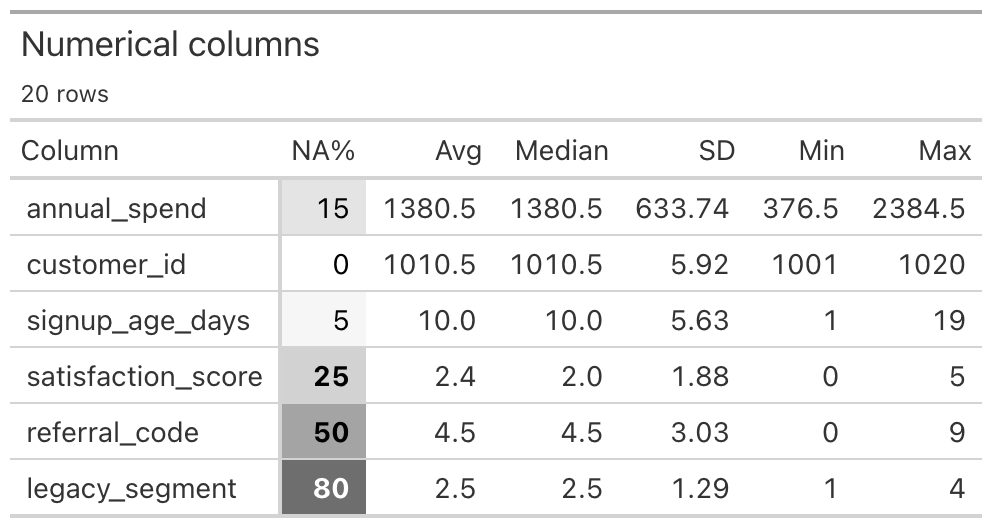
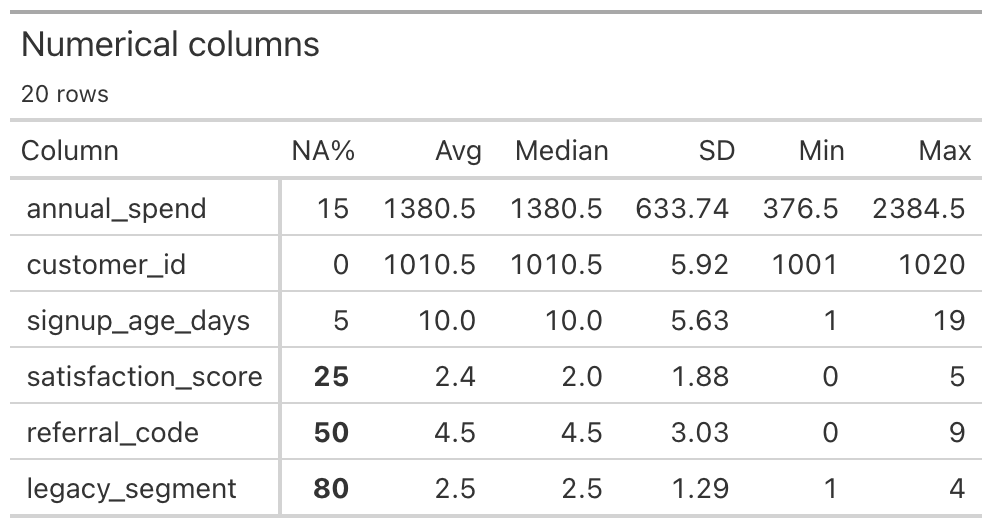
Make the missing value scale optional

Changed region(s): [[0.2727, 0.5758, 0.3939, 1.0], [0.2727, 0.3333, 0.3939, 0.4545], [0.3333, 0.4848, 0.3636, 0.5152]]

diff --git a/src/showstats/_gt.py b/src/showstats/_gt.py
@@ -22,7 +22,12 @@ def _great_tables_api():
     return GT, loc, style
 
 
-def make_gt_table(table: nw.DataFrame, table_type: str, num_rows: int):
+def make_gt_table(
+    table: nw.DataFrame,
+    table_type: str,
+    num_rows: int,
+    color_missing: bool = False,
+):
     """Build one styled Great Tables object from a formatted summary table."""
     GT, loc, style = _great_tables_api()
     titles = {
@@ -49,13 +54,14 @@ def make_gt_table(table: nw.DataFrame, table_type: str, num_rows: int):
     )
     if table_type == "num":
         result = result.cols_align(align="right", columns=table.columns[1:])
-    result = result.data_color(
-        columns="NA%",
-        palette=["#FFFFFF", "#4A4A4A"],
-        domain=[0, 100],
-        autocolor_text=True,
-        truncate=True,
-    )
+    if color_missing:
+        result = result.data_color(
+            columns="NA%",
+            palette=["#FFFFFF", "#4A4A4A"],
+            domain=[0, 100],
+            autocolor_text=True,
+            truncate=True,
+        )
     if high_missing_rows:
         result = result.tab_style(
             style=style.text(weight="bold"),
@@ -65,17 +71,22 @@ def make_gt_table(table: nw.DataFrame, table_type: str, num_rows: int):
 
 
 def make_gt_tables(
-    tables: Mapping[str, nw.DataFrame], config: SummaryConfig, num_rows: int
+    tables: Mapping[str, nw.DataFrame],
+    config: SummaryConfig,
+    num_rows: int,
+    color_missing: bool = False,
 ):
     """Return one GT object, or a section dictionary for ``table_type='all'``."""
     if config.table_type != "all":
         table = tables.get(config.table_type)
         if table is None:
             return None
-        return make_gt_table(table, config.table_type, num_rows)
+        return make_gt_table(table, config.table_type, num_rows, color_missing)
 
     return {
-        table_type: make_gt_table(tables[table_type], table_type, num_rows)
+        table_type: make_gt_table(
+            tables[table_type], table_type, num_rows, color_missing
+        )
         for table_type in ("time", "num", "cat")
         if table_type in tables
     }

diff --git a/src/showstats/showstats.py b/src/showstats/showstats.py
@@ -45,6 +45,7 @@ def show_stats(
     quantiles: list[float] | None = None,
     fold_quantiles: bool = True,
     fmt: Format = "text",
+    color_missing: bool = False,
 ) -> None | GT | dict[str, GT]:
     """
     Show compact summary statistics for the given frame.
@@ -72,6 +73,8 @@ def show_stats(
             ``"gt"`` for a styled Great Tables object. ``table_type="all"``
             returns one Great Tables object per nonempty section. Defaults to
             ``"text"``.
+        color_missing (bool): For Great Tables output, show ``NA%`` on a white
+            to dark gray background scale. Defaults to False.
     Raises:
         ValueError: If the input DataFrame has no rows or columns, or if a
             requested quantile is outside [0, 1], or if output is unsupported.
@@ -80,8 +83,8 @@ def show_stats(
 
     Note:
         - Text output uses a fixed-width table with left-aligned cells.
-        - Great Tables output shows ``NA%`` on a white to dark gray background
-          scale and uses bold text for values of 25 percent or more.
+        - Great Tables output uses bold text for ``NA%`` values of 25 percent
+          or more. Set ``color_missing=True`` to add a white to dark gray scale.
         - For large DataFrames (>100,000 rows), the row count is displayed in scientific notation.
         - Datetime columns are formatted as strings in the output.
     """
@@ -89,6 +92,8 @@ def show_stats(
         raise ValueError(
             f"fmt {fmt!r} not supported; expected one of {get_args(Format)}"
         )
+    if color_missing and fmt != "gt":
+        raise ValueError('color_missing=True requires fmt="gt"')
 
     tables, config, num_rows = _build_tables(
         df, table_type, top_cols, quantiles, fold_quantiles
@@ -96,7 +101,7 @@ def show_stats(
     if fmt == "gt":
         from showstats._gt import make_gt_tables
 
-        return make_gt_tables(tables, config, num_rows)
+        return make_gt_tables(tables, config, num_rows, color_missing)
     render_tables(tables, config, num_rows)
     return None
 

diff --git a/tests/test_gt.py b/tests/test_gt.py
@@ -38,6 +38,20 @@ def test_gt_output_supports_input_backends(frame, capsys):
     html = result.as_raw_html()
     assert "Numerical columns" in html
     assert "20 rows" in html
+    assert '<td class="gt_row gt_right">20</td>' in html
+    assert '<td style="font-weight: bold;" class="gt_row gt_right">25</td>' in html
+    assert '<td class="gt_row gt_right">9.5</td>' in html
+    assert 'gt_columns_bottom_border gt_right" rowspan="1"' in html
+
+
+def test_gt_output_can_color_missing_percentages():
+    html = show_stats(
+        pl.DataFrame(MISSING),
+        table_type="num",
+        fmt="gt",
+        color_missing=True,
+    ).as_raw_html()
+
     assert (
         '<td style="color: #000000; background-color: #dbdbdb;" '
         'class="gt_row gt_right">20</td>' in html
@@ -50,8 +64,6 @@ def test_gt_output_supports_input_backends(frame, capsys):
         '<td style="color: #FFFFFF; background-color: #6e6e6e; '
         'font-weight: bold;" class="gt_row gt_right">80</td>' in html
     )
-    assert '<td class="gt_row gt_right">9.5</td>' in html
-    assert 'gt_columns_bottom_border gt_right" rowspan="1"' in html
 
 
 def test_gt_output_returns_one_table_per_section(capsys):

diff --git a/tests/test_public_api.py b/tests/test_public_api.py
@@ -105,3 +105,8 @@ def test_public_api_rejects_out_of_range_quantiles(api):
 def test_show_stats_rejects_an_invalid_format():
     with pytest.raises(ValueError, match="fmt 'html' not supported"):
         show_stats(MIXED, fmt="html")
+
+
+def test_color_missing_requires_gt_output():
+    with pytest.raises(ValueError, match='color_missing=True requires fmt="gt"'):
+        show_stats(MIXED, color_missing=True)

diff --git a/README.md b/README.md
@@ -72,16 +72,16 @@ show_stats(pd.read_csv("docs/data/seattle-weather.csv")[["temp_max", "wind"]])
 
 Install the optional output package with `uv add "showstats[gt]"`. The
 `gt` output returns a Great Tables object that displays as HTML in a
-notebook. The `NA%` background changes from white to dark gray as the
-missing share increases. Missing percentages of 25 percent or more also
-use bold text.
+notebook. Missing percentages of 25 percent or more use bold text. Set
+`color_missing=True` to add an optional white to dark gray background
+scale.
 
 ``` python
 table = show_stats(df, "num", fmt="gt")
 table
 ```
 
-![Great Tables output with grayscale missing
+![Great Tables output with bold missing
 percentages](docs/images/gt-output.png)
 
 - **showstats** works with any data frame

diff --git a/changelog.md b/changelog.md
@@ -11,8 +11,8 @@ and this project adheres to [Semantic Versioning](https://semver.org/spec/v2.0.0
 
 - `show_stats(..., fmt="gt")` returns styled Great Tables output. Great Tables
   is available through the optional `gt` extra. `NA%` values of 25 percent or
-  more use bold text. Their backgrounds use a white to dark gray scale, and
-  numerical statistics are right aligned (#103).
+  more use bold text. Set `color_missing=True` to add a white to dark gray
+  background scale. Numerical statistics are right aligned (#103).
 - Lazy frames are accepted. `show_stats(df.lazy())` used to raise
   `TypeError: Cannot only use eager_only ... with polars.LazyFrame`; the
   schema is read once and used to build the summary plan. Scalar statistics
